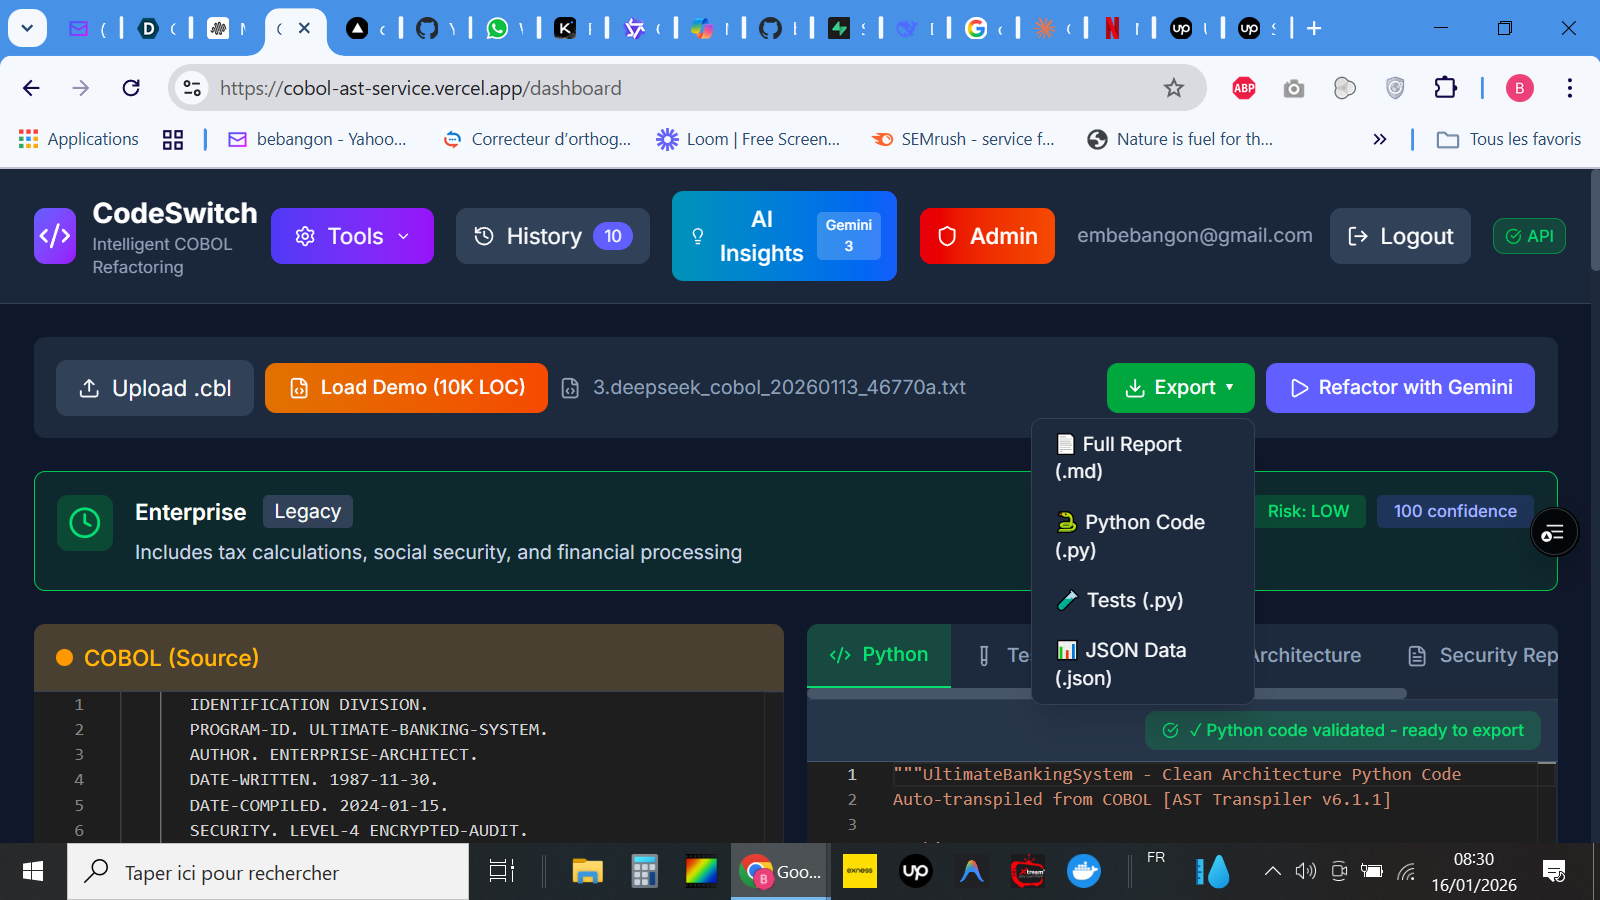
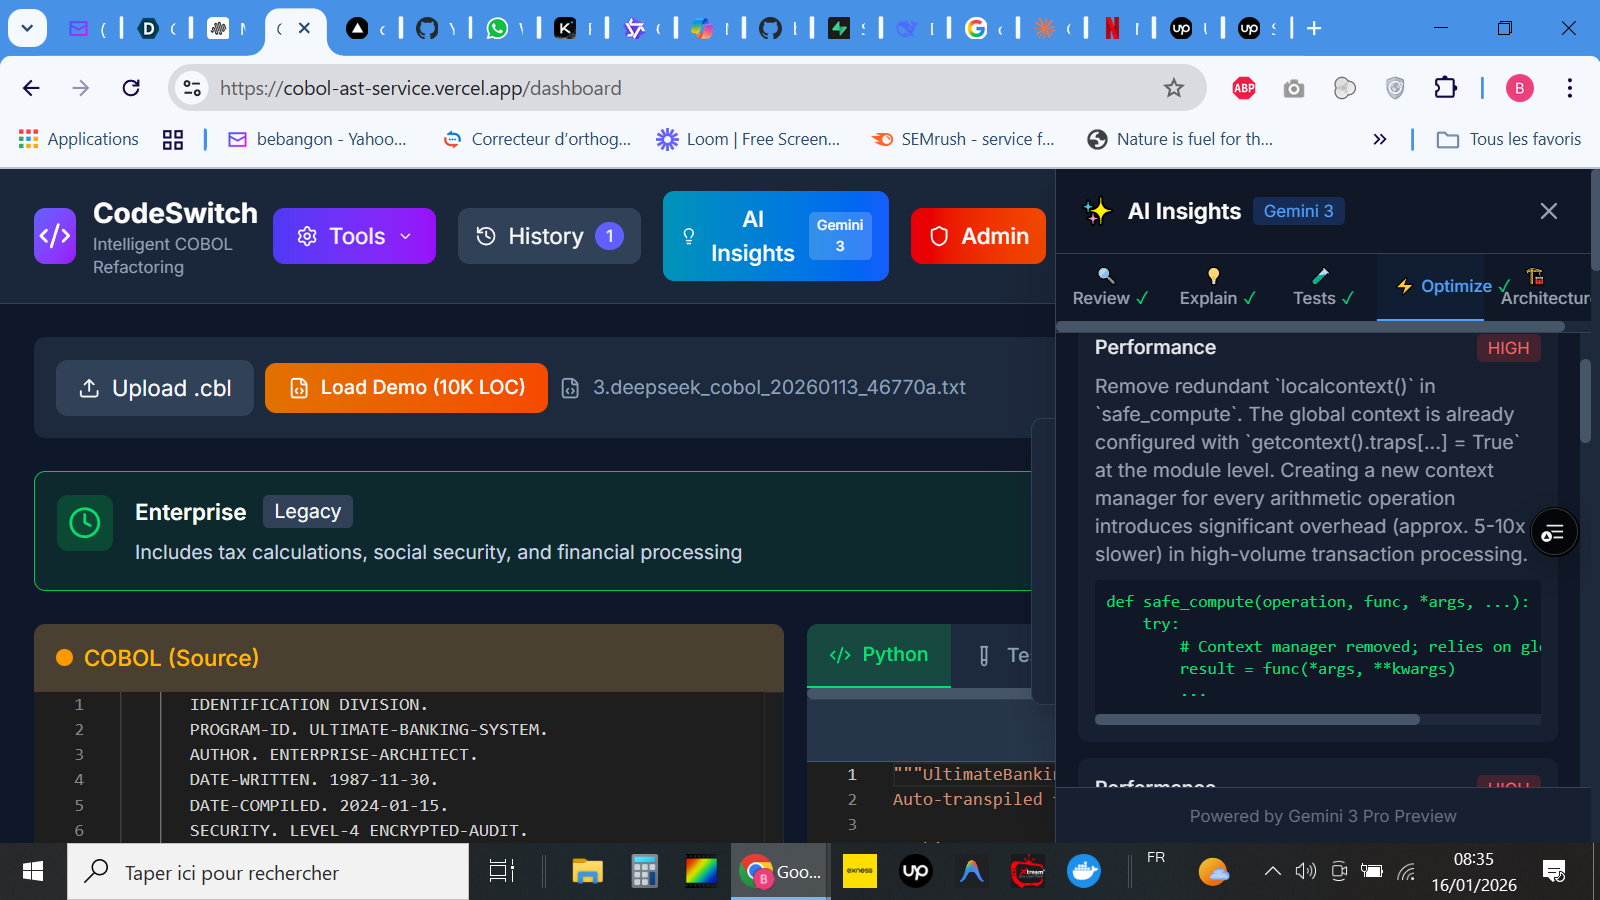
Message 356332291072220 - 1768548976

diff --git a/app/dashboard/page.tsx b/app/dashboard/page.tsx
@@ -718,6 +718,21 @@ export default function Home() {
     }
     return () => document.removeEventListener('mousedown', handleClickOutside);
   }, [showToolsMenu]);
+
+  // Export menu ref and click-outside handler
+  const exportMenuRef = useRef<HTMLDivElement>(null);
+  useEffect(() => {
+    const handleClickOutside = (event: MouseEvent) => {
+      if (exportMenuRef.current && !exportMenuRef.current.contains(event.target as Node)) {
+        setShowExportMenu(false);
+      }
+    };
+    if (showExportMenu) {
+      document.addEventListener('mousedown', handleClickOutside);
+    }
+    return () => document.removeEventListener('mousedown', handleClickOutside);
+  }, [showExportMenu]);
+
   const [showGlossary, setShowGlossary] = useState(false);
   const [showAIInsights, setShowAIInsights] = useState(false);
   const [showAdminPanel, setShowAdminPanel] = useState(false);
@@ -1814,7 +1829,7 @@ ${Array.isArray(analysis.unit_tests) ? analysis.unit_tests.join('\n') : (analysi
 
             <div className="flex items-center gap-2 flex-wrap justify-end">
               {analysis && (
-                <div className="relative">
+                <div className="relative" ref={exportMenuRef}>
                   <button
                     onClick={() => setShowExportMenu(!showExportMenu)}
                     className="flex items-center gap-1.5 px-3 py-2 bg-green-600 hover:bg-green-700 rounded-lg text-sm font-medium transition whitespace-nowrap"
